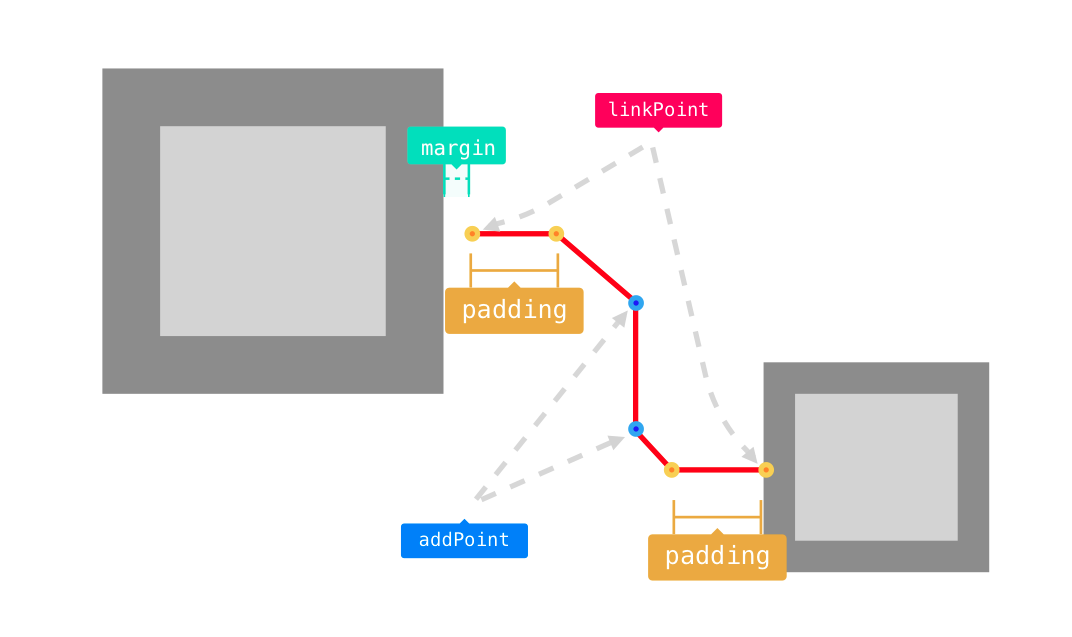
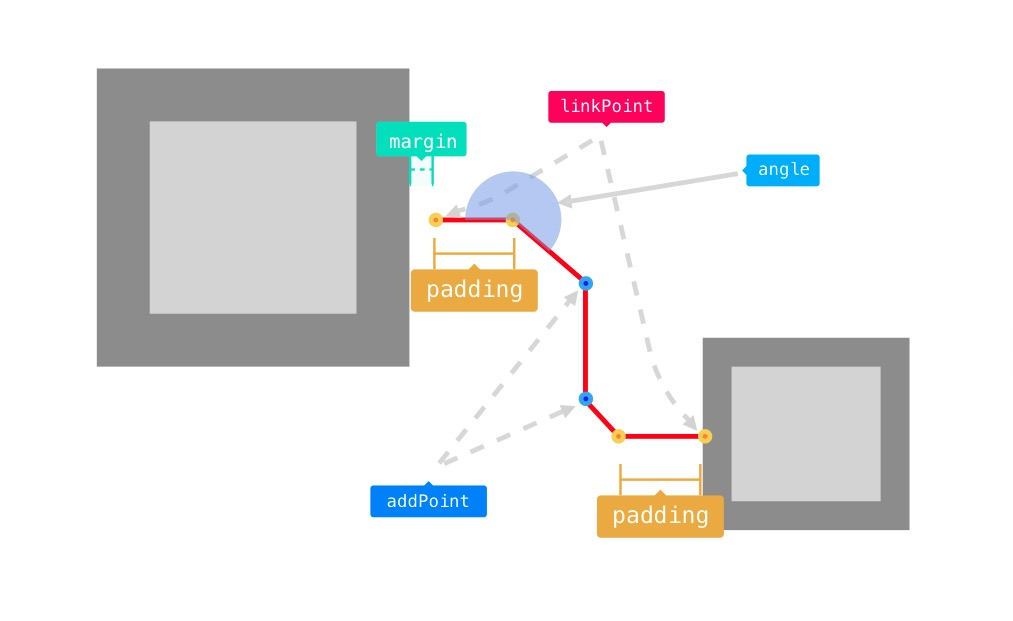
更新说明文档

diff --git a/README.md b/README.md
@@ -8,17 +8,13 @@
 | *option | IQnConnectorOption |      | 连接属性  |
 
 
-### 名称示意图
-
-![sketch map](https://github.com/qlynick/leafer-x-connector/blob/main/playground/assets/image1.png)
-
 #### IQnConnectorOption 属性
 
 | 字段      | 类型                                                                                                      | 默认 | 说明                               |
 | ----------- | ----------------------------------------------------------------------------------------------------------- | ------ | ------------------------------------ |
 | padding   | number                                                                                                    | 8    | 连接面延伸距离                     |
 | margin    | number                                                                                                    | 0    | 对象和连线之间的空隙               |
-| opt1      | ITargetOption                                                                                             | 8    | 单独设置连接面1的延伸距离          |
+| opt1      | ITargetOption                                                                                             |      | 单独设置连接面1的延伸距离          |
 | opt2      | ITargetOption                                                                                             |      |                                    |
 | addPoint  | IPointData[]                                                                                              |      | 连线自定义点                       |
 | type      | IConnectorType                                                                                            |      | 连线类型，目前暂时只支持最简单类型 |
@@ -26,14 +22,14 @@
 | onDraw    | FOnDrowCallback = (param:{<br />  s:IConnectorPoint,<br />  e:IConnectorPoint,<br />  path:string<br />})\=\>string | <br />   | 自定义连线回调函数                 |
 
 
-### 【Rect类型】ITargetOption 属性
+### 【Rect类型】ITargetOption 属性(后续根据不同形状参数略不同)
 
 | 字段    | 类型       | 默认 | 说明                                          |
 | --------- | ------------ | ------ | ----------------------------------------------- |
 | padding | number     | 8    | 连接面延伸距离                                |
 | margin  | number     | 0    | 对象和连线之间的空隙                          |
-| side    | ISideType  |      | 连接面1，连线与对象1的接触面<br />`top`, `bottom`, `left`, `right` 首字母<br /> |
-| percent | ISideType  |      | 连接面2，连线与对象2的接触面                  |
+| side    | ISideType  |      | 指定连接面，连线与对象的接触面<br/>`top`, `bottom`, `left`, `right` 首字母 |
+| percent | ISideType  |      | 指定连接面与连线的接触点（按顺时针方向）                  |
 | arrow   | IArrowType |      | 箭头类型参考官网箭头类型                      |
 
 #### 后续开发计划: （~~已完成~~）
@@ -41,7 +37,7 @@
 * [ ] 添加自定义链接点
 
   ![IPointData](https://github.com/qlynick/leafer-x-connector/blob/main/playground/assets/image2.png)
-* [ ] 连线类型样式（`~~default~~`，`straight`，`curve`）
+* [ ] 连线类型样式（~~`default`~~，`straight`，`curve`）
 
   ![IConnectorType](https://github.com/qlynick/leafer-x-connector/blob/main/playground/assets/image3.png)
 * [X] 箭头自定义
@@ -49,7 +45,7 @@
 * [ ] PNG透明图片
 * [ ] 对象之间围绕碰撞检测（自定义连接点的时候有点问题）
 
-### 示例1
+### 示例1: 快速上手
 
 ```js
 import { Leafer, Rect, Ellipse } from 'leafer-ui'
@@ -76,7 +72,7 @@ leafer.add(elipse)
 leafer.add(conn)
 ```
 
-### 示例2
+### 示例2: 属性配置
 
 ```js
 import { Leafer, Rect, Ellipse } from 'leafer-ui'
@@ -96,9 +92,101 @@ const rect = new Rect({
     fill: '#323379', 
     draggable: true,
 }) 
-const conn = new LeaferXQnConnector(elipse,rect) 
+
+const opt:IConnectorOption = {
+    opt1:{
+        margin:25,    // 比外层优先级更高
+    },
+    opt2:{
+        percent:0.8,
+        margin:5,
+    },
+    padding:20,
+    margin:10,
+}
+
+const conn = new LeaferXQnConnector(elipse,rect,opt) 
 
 leafer.add(rect)
 leafer.add(elipse)
 leafer.add(conn)
+```
+
+
+### 示例3: 回调, 自定义连线
+
+![sketch map](https://github.com/qlynick/leafer-x-connector/blob/main/playground/assets/image1.png)
+
+```js
+import { Leafer, Rect, Ellipse } from 'leafer-ui'
+import { LeaferXQnConnector } from "leafer-x-connector";
+const leafer = new Leafer({ view: window })
+ 
+
+const elipse = new Ellipse({ 
+    x: 150, 
+    y: 150,  
+    fill: '#32cd79',  
+    draggable: true,
+}) 
+const rect = new Rect({ 
+    x: 350,
+    y: 220,
+    fill: '#323379', 
+    draggable: true,
+}) 
+const opt:IConnectorOption = {
+    onDraw:(param)=>{
+        console.log(`param::`,param)
+        
+        // 根据需求可自定义path即可
+        return param.path   
+    }
+}
+const conn = new LeaferXQnConnector(elipse,rect,opt) 
+
+leafer.add(rect)
+leafer.add(elipse)
+leafer.add(conn)
+
+/* 回调输出:
+param::{
+  "s": {
+    "linkPoint": {
+      "x": 236.12890625,
+      "y": 387.453125
+    },
+    "padding": {
+      "x": 236.12890625,
+      "y": 367.453125
+    },
+    "side": "t",
+    "anglePoint": {   // padding为零的时候为了计算角度使用的点
+      "x": 236.12890625,
+      "y": 387.453125
+    },
+    "angle": 261.0890177921008
+  },
+  "e": {
+    "linkPoint": {
+      "x": 455,
+      "y": 330
+    },
+    "padding": {
+      "x": 475,
+      "y": 330
+    },
+    "side": "r",
+    "anglePoint": {
+      "x": 455,
+      "y": 330
+    },
+    "angle": 351.0890177921008,
+    "pathPoint": {
+      "x": 475,
+      "y": 367.453125
+    }
+  },
+  "path": "M 236.12890625 387.453125 L 236.12890625 367.453125 L 475 367.453125 L 475 330 L 455 330"
+}
 ```
